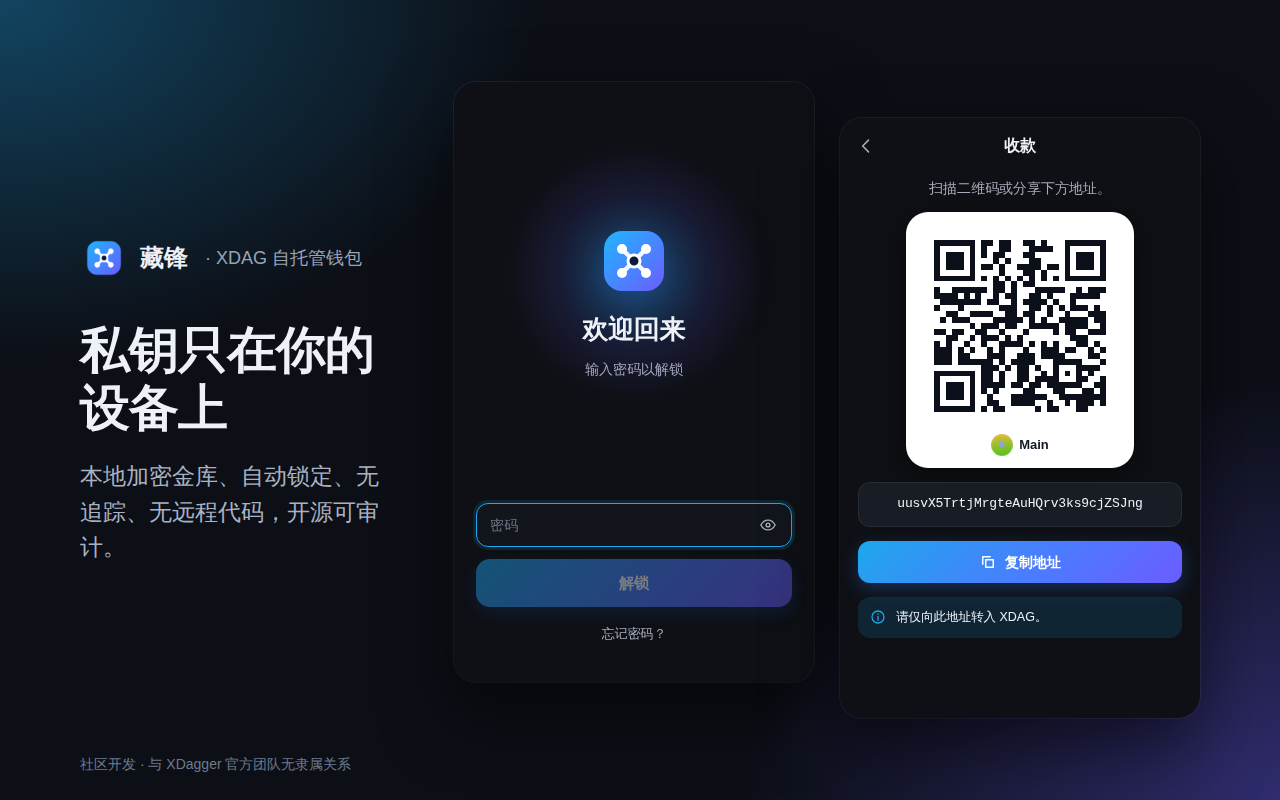
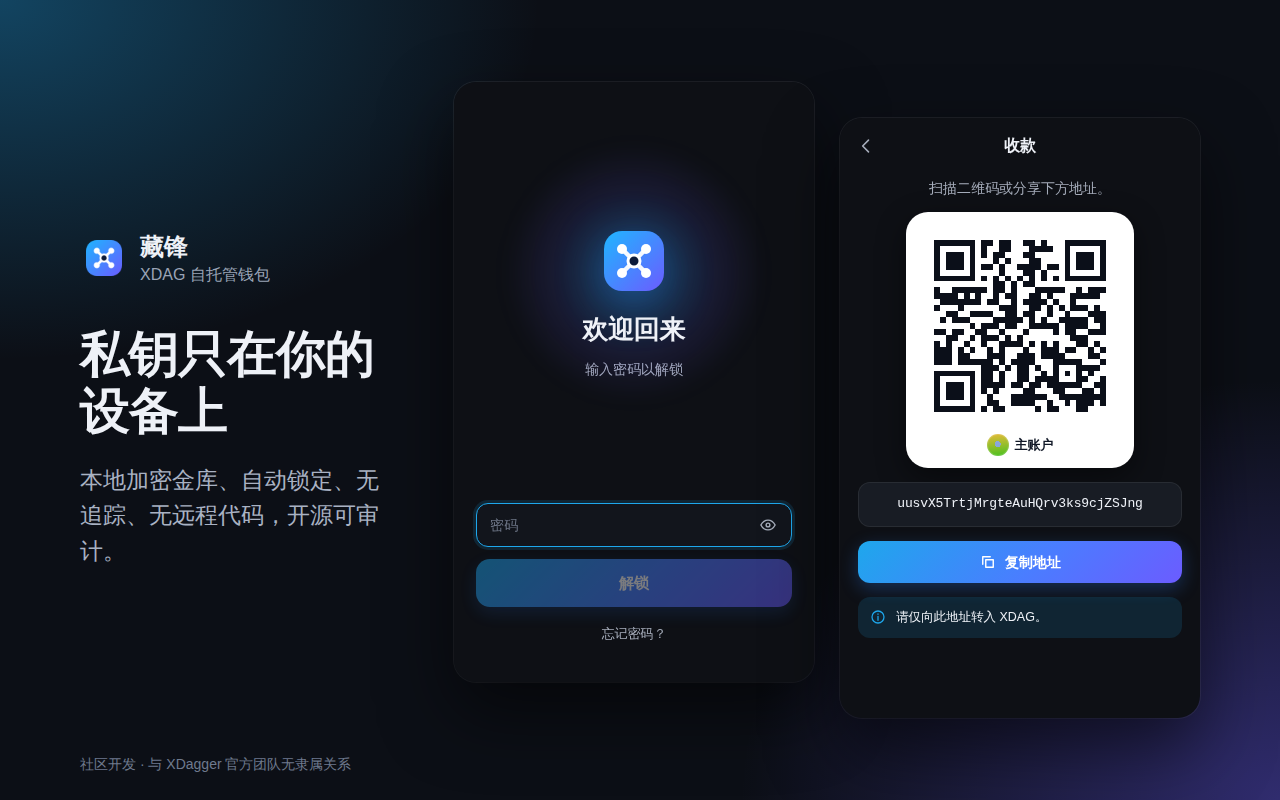
Polish the Chrome Web Store package after review
- Fix squashed balance card in the popup (flex children no longer shrink)
- Icon: artwork fills the 96px safe area of the 128px store icon
- Localise network labels and remaining English strings in the Chinese UI
- Store screenshots: Chinese frames use Chinese demo data, send form
  captured in full-page view so the fee breakdown is fully visible,
  brand descriptor no longer wraps, send recipient is not an own account
- Privacy policy and listing disclose every locally stored item
- Submission guide: repository must be public with a main branch
- ZIP ships LICENSE.txt and never source maps

Claude-Session: https://claude.ai/code/session_01Y9NrCvJCzNY1mGwFhQeKoK

Changed region(s): [[0.0625, 0.4062, 0.3125, 0.7188], [0.0625, 0.2812, 0.2812, 0.375], [0.75, 0.5312, 0.8125, 0.5625]]

diff --git a/src/ui/i18n.ts b/src/ui/i18n.ts
@@ -27,6 +27,12 @@ const en = {
   add: 'Add',
   open: 'Open',
   today: 'Today',
+  net_mainnet: 'Mainnet',
+  net_testnet: 'Testnet',
+  net_devnet: 'Devnet',
+  legacyClientSubtitle: '2018 C client · wallet.dat',
+  clipboardUnavailable: 'Clipboard unavailable',
+  fileTooLarge: 'File too large',
   yesterday: 'Yesterday',
 
   welcomeTitle: 'Sheath',
@@ -59,7 +65,7 @@ const en = {
   revealPhrase: 'Click to reveal',
   revealHint: 'Make sure nobody is watching your screen.',
   copyPhrase: 'Copy phrase',
-  phraseCopiedWarn: 'Copied. The clipboard will be cleared in 60 seconds.',
+  phraseCopiedWarn: 'Copied. Clear your clipboard after pasting.',
   writtenDown: "I've written it down",
   remindLater: 'Remind me later',
   backupWarn1: 'Never share it with anyone, including support staff.',
@@ -75,7 +81,7 @@ const en = {
   tabXdagj: 'xdagj file',
   tabLegacy: '2018 wallet',
   mnemonicLabel: 'Recovery phrase',
-  mnemonicPlaceholder: 'Enter 12 or 24 words separated by spaces',
+  mnemonicPlaceholder: 'Enter your 12–24 word recovery phrase, separated by spaces',
   wordsCount: '{n} words',
   allowBadChecksum: 'Import even though the checksum is invalid (advanced)',
   privateKeyLabel: 'Private key (hex)',
@@ -122,7 +128,7 @@ const en = {
   totalBalance: 'Balance',
   send: 'Send',
   receive: 'Receive',
-  migrate: 'Migrate',
+  migrate: 'Move',
   explorer: 'Explorer',
   activity: 'Activity',
   noActivity: 'No transactions yet',
@@ -332,6 +338,12 @@ const zh: Record<MessageKey, string> = {
   add: '添加',
   open: '打开',
   today: '今天',
+  net_mainnet: '主网',
+  net_testnet: '测试网',
+  net_devnet: '开发网',
+  legacyClientSubtitle: '2018 C 客户端 · wallet.dat',
+  clipboardUnavailable: '剪贴板不可用',
+  fileTooLarge: '文件过大',
   yesterday: '昨天',
 
   welcomeTitle: '藏锋',
@@ -364,7 +376,7 @@ const zh: Record<MessageKey, string> = {
   revealPhrase: '点击显示',
   revealHint: '请确保周围没有人或摄像头在看你的屏幕。',
   copyPhrase: '复制助记词',
-  phraseCopiedWarn: '已复制，剪贴板将在 60 秒后清空。',
+  phraseCopiedWarn: '已复制，粘贴后请清空剪贴板。',
   writtenDown: '我已抄写好',
   remindLater: '稍后提醒我',
   backupWarn1: '切勿向任何人透露，包括自称客服的人。',
@@ -380,7 +392,7 @@ const zh: Record<MessageKey, string> = {
   tabXdagj: 'xdagj 文件',
   tabLegacy: '2018 旧钱包',
   mnemonicLabel: '助记词',
-  mnemonicPlaceholder: '输入 12 或 24 个单词，以空格分隔',
+  mnemonicPlaceholder: '输入 12–24 个单词的助记词，以空格分隔',
   wordsCount: '{n} 个单词',
   allowBadChecksum: '校验和不正确也继续导入（高级）',
   privateKeyLabel: '私钥（十六进制）',
@@ -427,8 +439,8 @@ const zh: Record<MessageKey, string> = {
   totalBalance: '余额',
   send: '转账',
   receive: '收款',
-  migrate: '迁移',
-  explorer: '浏览器',
+  migrate: '转移',
+  explorer: '区块浏览器',
   activity: '交易记录',
   noActivity: '暂无交易',
   noActivityDesc: '收款和转账记录会显示在这里。',
@@ -487,7 +499,7 @@ const zh: Record<MessageKey, string> = {
   sending: '正在签名并广播…',
   sentSuccess: '转账已发送',
   sentDesc: '通常几分钟内即可确认。',
-  viewInExplorer: '在浏览器中查看',
+  viewInExplorer: '在区块浏览器中查看',
   sendFailed: '转账失败',
   broadcastUnknownTitle: '状态未知',
   broadcastUnknownDesc: '节点没有确认本次广播，交易仍可能成功。再次转账前，请先在交易记录或区块浏览器中确认。',
@@ -630,6 +642,14 @@ export function t(key: MessageKey, vars?: Record<string, string | number>): stri
 export function errorText(code: string, detail?: string): string {
   const key = `err_${code}` as MessageKey;
   if (key in en) return t(key, { v: detail ?? '' });
+  if (code === 'network_mismatch' && detail && ['mainnet', 'testnet', 'devnet'].includes(detail)) {
+    return t('err_network_mismatch', { v: t(`net_${detail}` as MessageKey) });
+  }
   if (code.startsWith('mnemonic_')) return t('err_invalid_mnemonic');
   return t('err_internal', { v: detail || code });
+}
+
+/** Display name of a network: built-in networks are translated, custom ones keep the user's name. */
+export function networkLabel(net: { builtin: boolean; kind: string; name: string }): string {
+  return net.builtin ? t(`net_${net.kind}` as MessageKey) : net.name;
 }

diff --git a/src/ui/pages/Settings.tsx b/src/ui/pages/Settings.tsx
@@ -9,7 +9,7 @@ import { call, openExternal } from '../api';
 import { Button, CopyButton, Empty, Identicon, IconButton, Notice, Page, PasswordField, Row, Segmented, Sheet, TextField, Toggle } from '../components';
 import { middle } from '../format';
 import { Icon } from '../icons';
-import { errorText, t } from '../i18n';
+import { errorText, networkLabel, t, type MessageKey } from '../i18n';
 import { navigate } from '../router';
 import { applySettings, applyState, clearLocalCaches, contacts, describeError, loadContacts, network, settings, toast, toastError, wallet } from '../state';
 import { PasswordSheet } from './Accounts';
@@ -68,7 +68,7 @@ export function SettingsPage() {
         <h3>{t('network')}</h3>
       </div>
       <div class="card list-card">
-        <Row icon="link" title={t('networks')} subtitle={network.value.rpcUrl} onClick={() => navigate('/settings/networks')} right={<span class={`net-dot net-${network.value.kind}`}>{network.value.name}</span>} />
+        <Row icon="link" title={t('networks')} subtitle={network.value.rpcUrl} onClick={() => navigate('/settings/networks')} right={<span class={`net-dot net-${network.value.kind}`}>{networkLabel(network.value)}</span>} />
         <Row icon="users" title={t('addressBook')} onClick={() => navigate('/settings/contacts')} />
       </div>
 
@@ -89,7 +89,7 @@ export function SettingsPage() {
       <div class="card list-card">
         <Row icon="info" title={`${t('appName')} ${version}`} subtitle={<span class="wrap">{t('unofficialNote')}</span>} />
         <Row icon="external" title="XDagger/xdagj" subtitle={t('sourceCode')} onClick={() => openExternal('https://github.com/XDagger/xdagj')} />
-        <Row icon="external" title="XDagger/xdag" subtitle="2018 C client · wallet.dat" onClick={() => openExternal('https://github.com/XDagger/xdag')} />
+        <Row icon="external" title="XDagger/xdag" subtitle={t('legacyClientSubtitle')} onClick={() => openExternal('https://github.com/XDagger/xdag')} />
         <Row icon="external" title="XDagger/XDAG-Pro" onClick={() => openExternal('https://github.com/XDagger/xdag-pro')} />
       </div>
 
@@ -311,7 +311,7 @@ export function NetworksPage() {
               <span class={`radio ${s.networkId === n.id ? 'on' : ''}`} />
               <span class="row-main">
                 <span class="row-title">
-                  {n.name} <span class={`kind kind-${n.kind}`}>{n.kind}</span>
+                  {networkLabel(n)} <span class={`kind kind-${n.kind}`}>{t(`net_${n.kind}` as MessageKey)}</span>
                   {n.builtin && <span class="badge-soft">{t('builtin')}</span>}
                 </span>
                 <span class="row-sub mono">{n.rpcUrl}</span>
@@ -375,9 +375,9 @@ function NetworkEditor({ value, onClose }: { value: NetworkConfig | null; onClos
               value={kind}
               onChange={setKind}
               options={[
-                { value: 'mainnet', label: 'Mainnet' },
-                { value: 'testnet', label: 'Testnet' },
-                { value: 'devnet', label: 'Devnet' },
+                { value: 'mainnet', label: t('net_mainnet') },
+                { value: 'testnet', label: t('net_testnet') },
+                { value: 'devnet', label: t('net_devnet') },
               ]}
             />
           </div>

diff --git a/src/ui/pages/Home.tsx b/src/ui/pages/Home.tsx
@@ -7,7 +7,7 @@ import { call, openExternal } from '../api';
 import { AddressLine, Button, CopyButton, Empty, IconButton, Identicon, Notice, Sheet, Skeleton, Spinner } from '../components';
 import { dayLabel, fmtAmount, fmtDateTime, fmtTime, middle } from '../format';
 import { Icon, type IconName } from '../icons';
-import { t } from '../i18n';
+import { networkLabel, t } from '../i18n';
 import { navigate } from '../router';
 import {
   accounts,
@@ -173,7 +173,7 @@ export function Home() {
         <div class="topbar-right">
           <button class={`net-pill net-${net.kind}`} onClick={() => navigate('/settings/networks')} title={net.rpcUrl}>
             <span class="dot" />
-            {net.name}
+            {networkLabel(net)}
           </button>
           <IconButton icon="lock" label={t('lock')} onClick={async () => applyState(await call('lock'))} />
           <IconButton icon="sliders" label={t('settingsTitle')} onClick={() => navigate('/settings')} />

diff --git a/src/ui/pages/Send.tsx b/src/ui/pages/Send.tsx
@@ -8,7 +8,7 @@ import { call, openExternal } from '../api';
 import { Button, CopyButton, Identicon, IconButton, Notice, Page, QRCode, Sheet, Spinner, TextField, Toggle, copyText } from '../components';
 import { fmtAmount, middle } from '../format';
 import { Icon } from '../icons';
-import { t } from '../i18n';
+import { networkLabel, t } from '../i18n';
 import { navigate, route } from '../router';
 import { accounts, balanceOf, contacts, errorInfo, loadContacts, network, refreshBalance, rpc, selectedAccount, settings } from '../state';
 
@@ -352,7 +352,7 @@ function ReviewSheet({
               </>
             )}
             <dt>{t('network')}</dt>
-            <dd>{network.value.name}</dd>
+            <dd>{networkLabel(network.value)}</dd>
           </dl>
           <Button block size="lg" loading={sending} onClick={onConfirm}>
             {sending ? t('sending') : t('confirmSend')}

diff --git a/src/ui/components.tsx b/src/ui/components.tsx
@@ -323,7 +323,7 @@ export async function copyText(text: string, secret = false): Promise<void> {
       }, 60_000);
     }
   } catch {
-    toast('Clipboard unavailable', 'error');
+    toast(t('clipboardUnavailable'), 'error');
   }
 }
 
@@ -385,7 +385,7 @@ export function FileDrop({ label, file, onFile, accept, hint }: { label: string;
   const read = async (f: File | undefined) => {
     if (!f) return;
     if (f.size > 4 * 1024 * 1024) {
-      toast('File too large', 'error');
+      toast(t('fileTooLarge'), 'error');
       return;
     }
     onFile({ name: f.name, bytes: new Uint8Array(await f.arrayBuffer()) });

diff --git a/src/ui/styles.css b/src/ui/styles.css
@@ -1570,6 +1570,12 @@ html[data-mode='tab'] .sheet-root {
   font-size: 12px;
 }
 
+.home-scroll > *,
+.page-body > * {
+  /* scrolling flex columns: children keep their size instead of being squashed */
+  flex-shrink: 0;
+}
+
 .home-scroll {
   flex: 1;
   min-height: 0;

diff --git a/store/PRIVACY.md b/store/PRIVACY.md
@@ -7,9 +7,13 @@ _Last updated / 最后更新：2026-09-25_
 Sheath — Self-Custody Wallet for XDAG ("the extension", Chinese name 藏锋) is a self-custody wallet for the XDAG cryptocurrency. It is developed by an
 independent community publisher and is not affiliated with the XDAG / XDagger core team.
 
-**What stays on your device.** Your recovery phrase, private keys, imported wallet files and account list
-are encrypted with your password (PBKDF2-SHA256 + AES-256-GCM) and stored only in your browser's extension
-storage. They are never sent to the publisher or to any third party. Your password is never stored.
+**What stays on your device.** Your recovery phrase and private keys (including keys imported from wallet
+files) and your account list are encrypted with your password (PBKDF2-SHA256 + AES-256-GCM) and stored only in
+your browser's extension storage. The recovery phrase and private keys never leave the extension; your password
+is never stored. Settings, your address book (names, addresses, notes) and a short list of recently sent
+transfers (addresses, amounts, fees, remarks; at most 100 entries, kept up to three days) are kept in local
+extension storage without encryption. While the wallet is unlocked, a cached balance list is kept in memory-only
+session storage. None of this is sent to the publisher.
 
 **What the extension sends over the network.** Only the requests needed to operate a wallet, and only to the
 XDAG RPC node you have selected (by default `mainnet-rpc.xdagj.org` / `testnet-rpc.xdagj.org`, or a custom node
@@ -30,7 +34,7 @@ including the Limited Use requirements.
 **Changes.** If these practices ever change, the change will be described here and announced in the extension
 before it takes effect.
 
-**Permissions.** `storage` (encrypted vault and settings), `alarms` (auto-lock timer), `idle` (lock when your
+**Permissions.** `storage` (encrypted vault, settings, address book, recent transfers), `alarms` (auto-lock timer), `idle` (lock when your
 screen locks), access to the default XDAG RPC nodes, and — only when you add a custom node — access to that
 node's address.
 
@@ -43,9 +47,9 @@ extension at any time; uninstalling removes all locally stored data.
 
 藏锋 — XDAG 自托管钱包（英文名 Sheath，以下简称“本插件”）是 XDAG 加密货币的自托管钱包，由独立的社区开发者发布，与 XDAG / XDagger 核心团队无隶属关系。
 
-**保存在本机的数据。** 助记词、私钥、导入的钱包文件和账户列表均使用你的密码加密（PBKDF2-SHA256 + AES-256-GCM），只保存在浏览器的扩展存储中，绝不会发送给开发者或任何第三方。你的密码不会被保存。
+**保存在本机的数据。** 助记词、私钥（包括从钱包文件导入的密钥）和账户列表均使用你的密码加密（PBKDF2-SHA256 + AES-256-GCM），只保存在浏览器的扩展存储中；助记词和私钥绝不会离开本插件，你的密码不会被保存。设置、地址簿（名称、地址、备注）以及最近发出的转账记录（地址、金额、手续费、备注；最多 100 条、最长保留 3 天）以未加密形式保存在本地扩展存储中；钱包解锁期间，余额缓存保存在仅存于内存的会话存储中。以上内容都不会发送给开发者。
 
-**网络通信。** 仅发送钱包运行所必需的请求，且只发送到你选择的 XDAG RPC 节点（默认 `mainnet-rpc.xdagj.org` / `testnet-rpc.xdagj.org`，或你自行添加的节点）：你的公开地址（用于查询余额、nonce 和交易记录），以及你签名并确认广播的交易。默认节点由第三方运营、并非本插件开发者；与任何网站服务器一样，你所使用的节点可以看到你的 IP 地址以及你查询的地址。写入 XDAG 网络的内容本身就是公开的。打开区块浏览器链接时，页面由你的浏览器从浏览器网站加载。
+**网络通信。** 仅发送钱包运行所必需的请求，且只发送到你选择的 XDAG RPC 节点（默认 `mainnet-rpc.xdagj.org` / `testnet-rpc.xdagj.org`，或你自行添加的节点）：你的公开地址（用于查询余额、nonce 和交易记录），以及你签名并确认广播的交易。默认节点由第三方运营，而非本插件开发者；与任何网站服务器一样，你所使用的节点可以看到你的 IP 地址以及你查询的地址。写入 XDAG 网络的内容本身就是公开的。打开区块浏览器链接时，页面由你的浏览器从区块浏览器网站加载。
 
 **我们不做的事。** 没有统计分析、遥测、广告、追踪、Cookie 或远程代码；开发者不接收、不收集、不出售、不共享也不转让任何个人或财务数据，数据只用于运行钱包本身，绝不用于信用评估、借贷或其它用途。
 
@@ -53,7 +57,7 @@ extension at any time; uninstalling removes all locally stored data.
 
 **变更。** 如果上述做法发生任何变化，会先在本页说明，并在插件内提前告知。
 
-**权限。** `storage`（加密金库与设置）、`alarms`（自动锁定计时）、`idle`（系统锁屏时锁定钱包）、访问默认的 XDAG RPC 节点，以及仅在你添加自定义节点时访问该节点地址。
+**权限。** `storage`（加密金库、设置、地址簿、最近转账记录）、`alarms`（自动锁定计时）、`idle`（系统锁屏时锁定钱包）、访问默认的 XDAG RPC 节点，以及仅在你添加自定义节点时访问该节点地址。
 
 **你的控制权。** 你可以随时导出密钥、重置钱包（设置 → 重置钱包）或卸载插件；卸载会删除所有本地数据。
 

diff --git a/store/SUBMISSION.md b/store/SUBMISSION.md
@@ -15,6 +15,7 @@
 
 提交前再做：
 
+0. **仓库必须公开、并有 `main` 分支。** 目前 `xdagx/xdagx` 是私有仓库、且只有 `claude/cool-cerf-ipb93y` 一个分支：商店描述里的主页 / 支持链接、隐私政策链接、审核用测试文件链接在未登录状态下都会 404，“开源”的说法也不成立。请先把代码合并到 `main` 并把仓库设为公开，然后**退出 GitHub 登录**逐个打开这些链接确认可访问。如果仓库要保持私有，请把隐私政策和测试文件放到其它公开地址，替换 LISTING.md 与 PRIVACY.md 中的链接，并删掉描述和截图说明里的“开源”。
 1. 确认 `mainnet-rpc.xdagj.org`、`testnet-rpc.xdagj.org` 可以正常访问（审核期间节点不可用会被判“功能无法使用”）。
 2. `npm ci && npm test && npm run package`，得到 `release/sheath-xdag-wallet-<版本>.zip`。
 3. 如需重新生成素材：`npm run build && node scripts/store-assets.mjs`。
@@ -24,10 +25,10 @@
 
 商店要求在专门的字段里填写一个**可公开访问的 HTTPS 链接**（只写在描述里会被拒）。任选其一：
 
-- 仓库公开时，直接用 `https://github.com/xdagx/xdagx/blob/main/store/PRIVACY.md`（先把代码合并到 `main`）；
-- 或开启 GitHub Pages，发布为 `https://xdagx.github.io/xdagx/privacy`。
+- 仓库公开并已合并到 `main` 时，直接用 `https://github.com/xdagx/xdagx/blob/main/store/PRIVACY.md`；
+- 或开启 GitHub Pages（从 `main` 分支根目录发布），地址为 `https://xdagx.github.io/xdagx/store/PRIVACY.html`。
 
-把链接填进 LISTING.md 描述末尾的 `<PRIVACY POLICY URL>` 占位处。
+把链接同时填进 LISTING.md 英文描述末尾的 `<PRIVACY POLICY URL>` 和中文描述末尾的 `<隐私政策链接>` 两处占位。
 
 ## 2. 准备 Google 账号
 
@@ -71,7 +72,7 @@
 
 ## 9. 审核说明（Test instructions，强烈建议填写）
 
-粘贴 LISTING.md 中的英文说明。审核员无法使用真实资金，所以提供了测试网步骤和
+粘贴 LISTING.md 中的英文说明（其中的测试文件链接依赖第 0 步：仓库公开且有 `main` 分支）。审核员无法使用真实资金，所以提供了测试网步骤和
 [测试用钱包文件](reviewer-test-files/)（`wallet.dat` 密码 `xdag2018`，`xdagj/wallet.data` 密码 `test-password-1`，均为公开测试密钥，切勿转入真实资产）。
 
 ## 10. 提交审核
@@ -89,5 +90,7 @@
 
 ## 名称备选
 
-若不想用 Sheath（英式英语中它也是避孕套的旧称），可换成 **Scabbard**，中文名 **藏锋** 保持不变；只需修改
-`public/_locales/*/messages.json`、`store/brand.json`、`src/ui/i18n.ts`（`appName` / `welcomeTitle` / `passwordAck`）、`store/PRIVACY.md`，再运行 `node scripts/store-assets.mjs` 重新生成素材。
+若不想用 Sheath（英式英语中它也是避孕套的旧称），可换成 **Scabbard**，中文名 **藏锋** 保持不变。
+运行 `grep -rn "Sheath\|sheath" --exclude-dir=node_modules --exclude-dir=dist --exclude-dir=release .` 找出所有出现的位置并逐一替换
+（包括 `public/_locales/*/messages.json`、`store/brand.json`、`src/ui/i18n.ts`、`popup.html`、`app.html`、`store/*.md`、`README.md`、`LICENSE`、`package.json`、`scripts/package.mjs`、`.github/workflows/ci.yml`），
+然后 `npm install --package-lock-only`、`npm run build && node scripts/store-assets.mjs`、`npm run package`。

diff --git a/store/LISTING.md b/store/LISTING.md
@@ -95,7 +95,7 @@ A self-custody wallet for the XDAG cryptocurrency. Users create or import XDAG a
 **storage**
 
 ```
-Keeps the wallet's data on the user's device in chrome.storage.local: the encrypted vault (recovery phrase and private keys, encrypted with the user's password via PBKDF2-SHA256 + AES-256-GCM; the password itself is never stored), the account list, settings, address book and any custom node the user adds. While the wallet is unlocked the derived session key is held in chrome.storage.session (memory only) and is cleared when the wallet locks. Nothing in storage is sent to the publisher or to any third party.
+Keeps the wallet's data on the user's device in chrome.storage.local: the encrypted vault (recovery phrase, private keys and account list, encrypted with the user's password via PBKDF2-SHA256 + AES-256-GCM; the password itself is never stored), settings, the address book, any custom node the user adds, a short log of recently sent transfers (kept up to 3 days) and a failed-unlock counter. While the wallet is unlocked the derived session key and a cached balance list are held in chrome.storage.session (memory only) and cleared when the wallet locks. Nothing is sent to the publisher; public addresses and signed transactions are sent only to the XDAG node the user selects.
 ```
 
 **alarms**
@@ -145,11 +145,13 @@ This is a self-custody XDAG wallet. Reviewers do not need real funds.
 2. Settings (slider icon) > Networks: select "Testnet" (https://testnet-rpc.xdagj.org) if you want to avoid mainnet.
 3. Home: Receive shows the address and QR code; the activity list and address book are under Home and Settings.
 4. Import flows with test-only files (no real funds) from https://github.com/xdagx/xdagx/tree/main/store/reviewer-test-files :
-   - Accounts > Import > "2018 wallet": wallet.dat + dnet_key.dat, password: xdag2018
-   - Accounts > Import > "xdagj file": xdagj/wallet.data, password: test-password-1
+   Click the account name at the top left of Home (opens "Accounts") > Import, then choose the tab:
+   - "2018 wallet": wallet.dat + dnet_key.dat, password: xdag2018
+   - "xdagj file": xdagj/wallet.data, password: test-password-1
+   In the toolbar popup these two tabs show "Open in full page to select files" (file pickers close popups); continue in that tab.
    A wrong password is rejected; the correct one shows the accounts contained in the file.
 5. Auto-lock: Settings > Auto-lock > 1 min, wait one minute: the wallet locks. Locking the OS screen also locks it.
-6. Sending requires a funded address; the send form, fee preview and review screen can be checked without sending.
+6. Sending requires a funded address. Without funds you can fill in the send form and see the fee breakdown and the "Recipient receives" preview; the Review button stays disabled with "Insufficient balance".
 
 The extension has no content scripts and only makes JSON-RPC requests to the selected XDAG node.
 Source: https://github.com/xdagx/xdagx (tests compare its output with the official xdagj / xdag code).

diff --git a/README.md b/README.md
@@ -18,7 +18,7 @@
 | --- | --- |
 | 钱包 | 创建钱包（12 词 BIP39 助记词 + 备份校验）；多账户（HD 派生 `m/44'/586'/0'/0/i`）；账户重命名 / 移除 |
 | 导入 | 助记词（12/15/18/21/24 词）· 私钥（hex）· **xdagj `wallet.data`** · **2018 版 `wallet.dat` + `dnet_key.dat`** |
-| 旧钱包 | 查看 2018 版 32 位区块地址余额，并一键**迁移到新地址**（等价于 xdagj `xfertonew`），自动识别该区块属于钱包里的哪把密钥 |
+| 旧钱包 | 查看 2018 版 32 位区块地址余额，并一键**转移到新地址**（等价于 xdagj `xfertonew`），自动识别该区块属于钱包里的哪把密钥 |
 | 转账 | 地址校验（Base58Check）、全部金额、备注（ASCII ≤ 32）、加速手续费（参考节点平均手续费）、确认页、对方实收金额预览 |
 | 收款 | 二维码、复制地址 |
 | 记录 | 交易记录（分页、按日期分组）、待确认交易跟踪、交易详情（状态 / 对手方 / 手续费 / 备注）、区块浏览器链接 |
@@ -49,8 +49,8 @@
 - **签名前校验**：后台再次验证地址、金额、手续费、余额，并用 `xdag_netType` 确认节点所在链与所选网络一致；无法确认时拒绝签名，防止跨链误签。
 - **防重复付款**：广播超时或节点应答异常时，交易记为“状态未知”而非“失败”，并提示先核对再重发；节点返回的交易哈希与本地计算值不一致时同样处理。
 - **并发安全**：所有金库写入与改密串行执行（改密与其它写入交错不会损坏金库）；锁定后进行中的恢复 / 解锁 / 转账都会作废；密码尝试串行计数，并行猜测无法绕过限速。
-- **严格 CSP**（无 `eval`、无远程脚本），无 content script、不向网页注入任何对象；依赖锁定版本，只用经过审计的 [@noble](https://paulmillr.com/noble/) / [@scure](https://github.com/paulmillr/scure-base) 密码库。
-- 敏感信息（助记词、私钥）需再次输入密码才能查看；复制后 60 秒自动清空剪贴板。
+- **严格 CSP**（无 `eval`、无远程脚本），无 content script、不向网页注入任何对象；依赖锁定版本。椭圆曲线、哈希、AES、BIP39/32 使用经过审计的 [@noble](https://paulmillr.com/noble/) / [@scure](https://github.com/paulmillr/scure-base) 库；xdagj 所需的 BCrypt 与 2018 钱包的 dfslib 为自行移植，并用官方实现生成的测试向量逐字节比对。
+- 敏感信息（助记词、私钥）需再次输入密码才能查看；复制时会提醒粘贴后清空剪贴板。
 - 自定义节点仅允许 `https://`（本机 `localhost` 可用 `http://`），并按需申请该域名权限。
 
 ## 安装

diff --git a/store/reviewer-test-files/README.md b/store/reviewer-test-files/README.md
@@ -8,5 +8,9 @@
 | `wallet.dat` + `dnet_key.dat` | 2018 XDAG C-client wallet (3 keys) | `xdag2018` |
 | `xdagj/wallet.data` | xdagj wallet v4 (12-word phrase + 3 keys) | `test-password-1` |
 
-Import: open the extension → Import a wallet (or Accounts → Import) → tab "2018 wallet" / "xdagj file".
+Import: welcome tab → "Import a wallet" → set a password → tab "2018 wallet" / "xdagj file".
+Once a wallet exists: click the account name at the top left of Home → Import → the same tabs
+(in the toolbar popup, use "Open in full page to select files").
+
+导入：欢迎页 →“导入钱包”→ 设置密码 →“2018 旧钱包”/“xdagj 文件”页签；已有钱包时：点击首页左上角的账户名 →“导入”。
 The files were generated by the original XDAG C code and by xdagj itself (see `tools/vectors/`).
